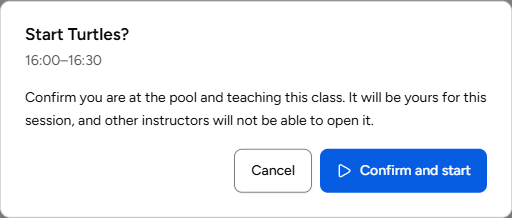
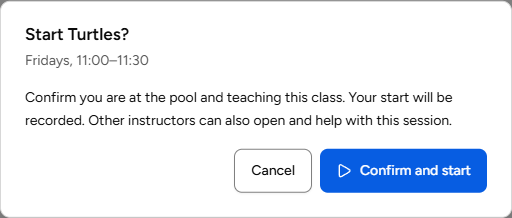
Allow instructors to share started class sessions

Changed region(s): [[0.0312, 0.5229, 0.875, 0.578], [0.6562, 0.4128, 0.9688, 0.4679], [0.0312, 0.2477, 0.3125, 0.3028]]

diff --git a/src/app/(instructor)/instructor/page.tsx b/src/app/(instructor)/instructor/page.tsx
@@ -4,7 +4,6 @@ import {
   ArrowRight,
   Check,
   ClipboardList,
-  LockKeyhole,
   ChevronDown,
 } from "lucide-react";
 import { Button } from "@/components/shadcn/button";
@@ -68,7 +67,6 @@ export default async function InstructorPage(props: PageProps<"/instructor">) {
     shown.filter(course => !cancellations.has(course.id)),
     group,
     now,
-    (c) => claimState(covers.get(c.id), me) === "locked",
   );
   const earlier =
       group === "time" ? sections.filter((s) => s.phase === "earlier") : [],
@@ -105,9 +103,10 @@ export default async function InstructorPage(props: PageProps<"/instructor">) {
               ? " · " + (course.instructor?.name ?? "No instructor assigned")
               : ""}
           </p>
+          {state === "shared" ? <p className="text-xs text-ui-muted-foreground">Started by {claim?.coverByName}</p> : null}
         </ItemContent>
         <div className="flex w-full items-center justify-between gap-3 sm:w-auto sm:gap-5">
-          {cancellations.has(course.id) ? <div className="space-y-1"><Tag color={CANCELLATION_META.cancelled.color}>Cancelled</Tag><p className="max-w-sm break-words text-sm text-ui-muted-foreground">{cancellations.get(course.id)?.reason}</p></div> : state === "mine" ? (
+          {cancellations.has(course.id) ? <div className="space-y-1"><Tag color={CANCELLATION_META.cancelled.color}>Cancelled</Tag><p className="max-w-sm break-words text-sm text-ui-muted-foreground">{cancellations.get(course.id)?.reason}</p></div> : state !== "available" ? (
             <>
               <p className="flex items-center gap-2 text-sm text-ui-muted-foreground">
                 {marked.has(course.id) ? (
@@ -134,14 +133,6 @@ export default async function InstructorPage(props: PageProps<"/instructor">) {
                 </Link>
               </Button>
             </>
-          ) : state === "locked" ? (
-            <p className="flex items-center gap-2 text-sm text-ui-muted-foreground">
-              <LockKeyhole className="size-4 shrink-0" aria-hidden="true" />
-              <span>
-                In progress
-                <span className="block text-xs">With {claim?.coverByName}</span>
-              </span>
-            </p>
           ) : own || can(session, "attendance.cover") ? (
             <StartClass
               courseId={course.id}
@@ -295,16 +286,12 @@ function phaseOf(
 /** By time: the day in the order it happens, one section per start time,
  *  classes inside in curriculum order. By level: one section per rung of
  *  the ladder, programmes and levels in curriculum order, classes inside by
- *  time — for the instructor who has the same checklist open all afternoon.
- *  Inside a section, a class somebody else has taken over goes last. */
+ *  time — for the instructor who has the same checklist open all afternoon. */
 function groupClasses(
   courses: CourseRow[],
   group: Grouping,
   now: number,
-  demote: (course: CourseRow) => boolean,
 ): Section[] {
-  const byDemotion = (a: CourseRow, b: CourseRow) =>
-    Number(demote(a)) - Number(demote(b));
   const byCurriculum = (a: CourseRow, b: CourseRow) =>
     a.level.programme.sortOrder - b.level.programme.sortOrder ||
     a.level.programme.name.localeCompare(b.level.programme.name) ||
@@ -325,7 +312,7 @@ function groupClasses(
 
   if (group === "time") {
     const sorted = [...courses].sort(
-      (a, b) => byTime(a, b) || byDemotion(a, b) || byCurriculum(a, b),
+      (a, b) => byTime(a, b) || byCurriculum(a, b),
     );
     for (const course of sorted) {
       const key = String(course.startMinutes);
@@ -340,7 +327,7 @@ function groupClasses(
     }
   } else {
     const sorted = [...courses].sort(
-      (a, b) => byCurriculum(a, b) || byDemotion(a, b) || byTime(a, b),
+      (a, b) => byCurriculum(a, b) || byTime(a, b),
     );
     for (const course of sorted) {
       const key = course.level.id;

diff --git a/src/lib/help/guides-classes.ts b/src/lib/help/guides-classes.ts
@@ -49,11 +49,11 @@ export const CLASS_GUIDES: HelpArticle[] = [
     steps: [
       { title: "Check the site and today’s list", text: "Use My classes for your scheduled classes, or All classes when covering another teacher. You can group the list by time or level." },
       { title: "Choose Start class", text: "Read the class and date in the confirmation. Confirm that you are at the pool and teaching this class. Your own scheduled classes require this confirmation too." },
-      { title: "Open the teaching record", text: "Once you have started the class, use Open class. The list shows whether attendance is saved or still needs to be taken." },
+      { title: "Open the teaching record", text: "Once an instructor has started the class, use Open class. Other authorised instructors can also open it and help. The list shows whether attendance is saved or still needs to be taken." },
       { title: "Return to the list when finished", text: "Use the class-return controls. Your My classes or All classes selection and grouping are retained." },
     ], result: "You are recorded as teaching that class on that date and can open the teaching record within your permissions.",
     troubleshooting: [
-      { question: "The class says In progress under someone else’s name.", answer: "Another instructor has already confirmed that they are teaching it. You cannot overwrite that claim or open its teaching records. Ask the responsible staff member to resolve the situation." },
+      { question: "Another instructor has already started the class.", answer: "Choose Open class to help with attendance or competencies within your permissions. The original start stays recorded, and your saves are attributed to you. If an old page still says In progress, refresh it. Use All classes to find a colleague’s class." },
       { question: "Can I start a cancelled class?", answer: "No. A cancelled session cannot receive a new start or teaching saves. Contact the duty manager if the cancellation needs to be discussed." },
     ], related: ["take-attendance", "record-competencies", "saving-and-connection"], action: "instructor",
   },
@@ -89,7 +89,7 @@ export const CLASS_GUIDES: HelpArticle[] = [
   {
     slug: "complete-class-level", title: "Confirm a level completion from a class", category: "teaching", scopes: ["desk", "instructor"],
     summary: "Record a confirmed milestone after the required competencies have been achieved.", keywords: ["complete", "level", "pass", "graduate", "ready", "milestone", "finish"],
-    before: ["You need permission to complete a level. Save competency changes before reviewing who is ready. Instructor class ownership still applies."],
+    before: ["You need permission to complete a level. Save competency changes before reviewing who is ready. An instructor must have started the session before teaching records can be saved."],
     steps: [
       { title: "Open the class’s Competencies step", text: "Check the saved marks for the swimmer and review the Ready to complete area when it is available." },
       { title: "Open the completion action", text: "Check the swimmer and level in the dialog. Review any outstanding competencies rather than relying only on the overall count." },

diff --git a/src/lib/progression/actions/assess.test.ts b/src/lib/progression/actions/assess.test.ts
@@ -72,15 +72,15 @@ test("a cancellation blocks instructor and stale desk competencies and level com
   assert.deepEqual(f.marks, before); assert.deepEqual(f.completions, []); assert.deepEqual(f.audits, []);
 });
 
-test("Instructor marks and completion require the confirmed owner and current enrolment under the course lock", async () => {
+test("Instructor marks and completion require a start and current enrolment under the course lock", async () => {
   const f = fixture(); f.deckOnly();
-  for (const owner of [undefined, null, "another-instructor"]) {
+  for (const owner of [undefined]) {
     f.setClaim(owner);
     assert.equal((await f.actions.saveInstructorAssessment(deckMarks)).ok, false);
     assert.equal((await f.actions.confirmLevelCompletion({ ...completion, teaching })).ok, false);
     assert.equal(f.audits.length, 0); assert.equal(f.completions.length, 0);
   }
-  f.setClaim("staff");
+  f.setClaim("another-instructor");
   assert.equal((await f.actions.saveInstructorAssessment(deckMarks)).ok, true);
   assert.equal(f.marks.at(-1)?.assessedOn.toISOString().slice(0, 10), teaching.date);
   assert.equal((f.marks.at(-1) as unknown as { assessedInCourseId: string }).assessedInCourseId, "class");
@@ -102,10 +102,15 @@ test("Instructor accounts cannot bypass the claim via desk actions or a fabricat
   assert.equal(f.audits.length, 0); assert.equal(f.completions.length, 0);
 });
 
-test("the confirmed teacher can complete an eligible swimmer's level and audit failure rolls it back", async () => {
-  const f = fixture(); f.deckOnly(); f.setClaim("staff");
-  assert.equal((await f.actions.confirmLevelCompletion({ ...completion, teaching })).ok, true);
-  assert.equal(f.completions.length, 1); assert.equal(f.audits[0].action, "complete-level");
+test("colleagues can mark and complete existing sessions, including starts by deleted teachers", async () => {
+  for (const owner of ["staff", "another-instructor", null]) {
+    const f = fixture(); f.deckOnly(); f.setClaim(owner);
+    assert.equal((await f.actions.confirmLevelCompletion({ ...completion, teaching })).ok, true);
+    assert.equal(f.completions.length, 1); assert.equal(f.audits[0].action, "complete-level");
+    const marks = fixture(); marks.deckOnly(); marks.setClaim(owner);
+    assert.equal((await marks.actions.saveInstructorAssessment(deckMarks)).ok, true);
+    assert.equal(marks.audits.length, 1);
+  }
   const failed = fixture(); failed.deckOnly(); failed.setClaim("staff"); failed.failAudit();
   await assert.rejects(failed.actions.confirmLevelCompletion({ ...completion, teaching }), /audit failed/);
   assert.equal(failed.completions.length, 0);

diff --git a/src/lib/attendance/access.test.ts b/src/lib/attendance/access.test.ts
@@ -9,26 +9,29 @@ const access = serverModule<typeof import("./access")>("src/lib/attendance/acces
 });
 const session = (permissions: PermissionKey[]) => ({ user: { id: "teacher", permissions } }) as Session;
 
-test("poolside teaching requires ownership or declared cover, including for desk transcribers", () => {
+test("poolside teaching requires a recorded start but never exclusive ownership", () => {
   const args = { session: session(["attendance.markAny"]), instructorId: "colleague" };
   assert.equal(access.canMarkRegister(args), true);
   assert.equal(access.canTeachClass(args), false);
   assert.equal(access.needsTakeOver(args), true);
   assert.equal(access.canTeachClass({ ...args, coverById: "teacher" }), true);
   assert.equal(access.canTeachClass({ ...args, instructorId: "teacher" }), false);
-  assert.equal(access.canTeachClass({ ...args, instructorId: "teacher", coverById: "colleague" }), false);
+  assert.equal(access.canTeachClass({ ...args, instructorId: "teacher", coverById: "colleague" }), true);
+  assert.equal(access.canTeachClass({ ...args, coverById: null }), true);
 });
 
 test("read-only staff cannot teach and cover without permission is not offered", () => {
   assert.equal(access.canTeachClass({ session: session([]), instructorId: "teacher" }), false);
+  assert.equal(access.canTeachClass({ session: session([]), instructorId: "teacher", coverById: "colleague" }), false);
+  assert.equal(access.canTeachClass({ session: session(["attendance.mark"]), instructorId: "colleague", coverById: "colleague" }), true);
   assert.equal(access.needsTakeOver({ session: session(["attendance.mark"]), instructorId: "colleague" }), false);
   assert.equal(access.canTeachClass({ session: session(["attendance.mark"]), instructorId: null, coverById: "teacher" }), true);
 });
 
-test("administrator access does not bypass the confirmed instructor claim", () => {
+test("administrators still need a recorded start and may share another instructor's session", () => {
   const args = { session: session(["staff.manage", "roles.manage"]), instructorId: "teacher" };
   assert.equal(access.canMarkRegister(args), true);
   assert.equal(access.canTeachClass(args), false);
-  assert.equal(access.canTeachClass({ ...args, coverById: "colleague" }), false);
+  assert.equal(access.canTeachClass({ ...args, coverById: "colleague" }), true);
   assert.equal(access.canTeachClass({ ...args, coverById: "teacher" }), true);
 });

diff --git a/src/lib/attendance/actions/cover.ts b/src/lib/attendance/actions/cover.ts
@@ -14,7 +14,8 @@ import { cancellationError } from "@/lib/cancellations/guard";
 
 /** Confirm who is teaching a class on a date. The existing ClassCover record
  * now includes scheduled instructors as well as substitutes. Claims and their
- * audit entries are created together under the course lock and never replaced. */
+ * audit entries are created together under the course lock and never replaced.
+ * A recorded start allows other authorised instructors to open the class. */
 
 
 const takeOverSchema = z.object({
@@ -30,7 +31,7 @@ export async function takeOverClass(input: TakeOverInput): Promise<ActionResult>
 }
 
 /** Confirmation is required for scheduled instructors as well as cover.
- * The course lock makes concurrent confirmations a single-winner operation. */
+ * Concurrent confirmations keep one original start; both callers can open it. */
 export async function startClass(input: TakeOverInput): Promise<ActionResult> {
   const session = await requirePermission("attendance.mark");
   if (!canSee(session, "instructor")) throw new AuthorizationError("Instructor access is required.");
@@ -61,7 +62,6 @@ async function claim(input: TakeOverInput, session: Session, starting: boolean):
     if (!course) return fail("That class no longer exists.");
     if (course.archivedAt) return fail("That class is archived.");
     const own = course.instructorId === session.user.id;
-    if (!own && !can(session, "attendance.cover")) return fail("You do not have permission to start another instructor’s class.");
 
     // The same two guards as the register, for the same reason: a cover on a
     // day the class never ran is as wrong as a mark on one.
@@ -80,8 +80,8 @@ async function claim(input: TakeOverInput, session: Session, starting: boolean):
       where: { courseId_date: { courseId, date } },
       select: { coverById: true, coverByName: true },
     });
-    if (existing?.coverById === session.user.id) return ok();
-    if (existing) return fail(`This class has already been started by ${existing.coverByName}. Only that instructor can open it.`);
+    if (existing) return ok();
+    if (!own && !can(session, "attendance.cover")) return fail("You do not have permission to start another instructor’s class.");
 
     const name = session.user.name ?? "Unknown";
     const record = {

diff --git a/src/lib/attendance/actions/cover.test.ts b/src/lib/attendance/actions/cover.test.ts
@@ -148,25 +148,34 @@ test("a scheduled instructor confirms a class once and a retry adds no audit", a
   assert.equal((await f.actions.startClass(input)).ok, true);
   assert.equal(f.audits.length, 1);
 });
-test("simultaneous starts have one winner and the losing teacher cannot take it over", async () => {
+test("simultaneous starts keep one audit and original teacher while both instructors gain access", async () => {
   const f = fixture();
   const one = f.actions.startClass(input);
   f.actor("cover");
   const two = f.actions.startClass(input);
   const result = await Promise.all([one, two]);
-  assert.equal(result.filter((r) => r.ok).length, 1);
+  assert.equal(result.filter((r) => r.ok).length, 2);
   assert.equal(f.claim()?.coverById, "scheduled");
   assert.equal(f.audits.length, 1);
-  assert.equal((await f.actions.takeOverClass(input)).ok, false);
+  assert.equal((await f.actions.takeOverClass(input)).ok, true);
+  assert.equal(f.claim()?.coverById, "scheduled");
+  assert.equal(f.audits.length, 1);
 });
-test("a claim blocks the scheduled teacher too, including when its owner was deleted", async () => {
+test("existing starts immediately allow colleagues, including when the original teacher was deleted", async () => {
   for (const owner of ["cover", null]) {
     const f = fixture();
     f.seed(owner);
-    assert.equal((await f.actions.startClass(input)).ok, false);
+    assert.equal((await f.actions.startClass(input)).ok, true);
     assert.equal(f.claim()?.coverById, owner);
     assert.equal(f.audits.length, 0);
   }
+});
+
+test("joining an existing session needs no new cover claim", async () => {
+  const f = fixture(); f.seed("scheduled"); f.actor("colleague"); f.noCover();
+  assert.equal((await f.actions.startClass(input)).ok, true);
+  assert.equal(f.claim()?.coverById, "scheduled");
+  assert.equal(f.audits.length, 0);
 });
 test("permission, date and archive checks happen before claiming, and audit failure rolls back", async () => {
   const f = fixture();

diff --git a/src/lib/help/screenshots.ts b/src/lib/help/screenshots.ts
@@ -43,7 +43,7 @@ export const GUIDE_SCREENSHOTS: Record<string, Placement[]> = {
   ],
   "daily-schedule": [{ image: "schedule", step: "Read the booking sheet", caption: "Levels run down the left; start times run across the top.", alt: "Daily Schedule booking sheet with the week navigator and classes arranged by level and time." }],
   "manage-class": [{ image: "add-class", step: "Add the weekly class", caption: "Check the site, level, weekly time and capacity before saving.", alt: "Add class dialog with level, day, start time, duration, capacity, instructor and pool-area fields." }],
-  "start-class": [{ image: "start-class", step: "Choose Start class", caption: "Confirm that you are teaching this dated class.", alt: "Start Turtles confirmation with the class time, a reminder that only the claiming instructor can open it, and Confirm and start." }],
+  "start-class": [{ image: "start-class", step: "Choose Start class", caption: "Confirm that you are teaching this dated class. Other authorised instructors can also help.", alt: "Start Turtles confirmation with the class time, an explanation that the start is recorded and colleagues can also open the session, and Confirm and start." }],
   "take-attendance": [{ image: "attendance", step: "Check each swimmer’s attendance", caption: "Choose each swimmer’s attendance status and review the roster before saving.", alt: "Attendance form showing example swimmers with Present, Absent and Late choices, Class note and Save and continue." }],
   "record-competencies": [
     { image: "competencies", step: "Mark what was demonstrated", caption: "Work through one competency at a time and mark the swimmers who were in today.", alt: "Class competency checklist with a competency selector, achieved controls, a group marking action and Not in today section.", scope: "desk" },

diff --git a/src/lib/attendance/actions/register.test.ts b/src/lib/attendance/actions/register.test.ts
@@ -98,10 +98,10 @@ test("unchanged attendance produces no writes or audit entries", async () => {
   assert.equal(f.updated.length, 0); assert.equal(f.audits.length, 0);
 });
 
-test("Instructor attendance checks the confirmed owner under lock, including omitted teaching flags", async () => {
+test("Instructor attendance still requires a start, including omitted teaching flags", async () => {
   const f = fixture(); f.deckOnly();
   const input = { ...f.input(), classNote: "Deck note" };
-  for (const owner of [undefined, null, "another-instructor"]) {
+  for (const owner of [undefined]) {
     f.setClaim(owner);
     assert.equal((await f.markRegister({ ...input, teaching: true })).ok, false);
     assert.equal((await f.markRegister(input)).ok, false);
@@ -112,6 +112,19 @@ test("Instructor attendance checks the confirmed owner under lock, including omi
   assert.equal(f.note(), "Deck note"); assert.equal(f.audits.length, 1);
   assert.match(f.audits[0].summary, /taught by Test Instructor, the scheduled instructor/);
   assert.doesNotMatch(f.audits[0].summary, /covering for/);
+});
+
+test("other instructors can save existing sessions without rewriting the original start", async () => {
+  for (const owner of [null, "another-instructor"]) {
+    const f = fixture(); f.deckOnly(); f.setClaim(owner);
+    const input = { ...f.input(), teaching: true, classNote: "Saved by a colleague" };
+    input.marks[1].status = "PRESENT";
+    assert.equal((await f.markRegister(input)).ok, true);
+    assert.equal(f.rows[1].markedById, "instructor");
+    assert.equal(f.rows[0].markedById, "original");
+    assert.equal(f.note(), "Saved by a colleague");
+    assert.doesNotMatch(f.audits[0].summary, /taught by|taken by/);
+  }
 });
 
 test("editing one mark preserves the other swimmer's original recorder", async () => {

diff --git a/src/lib/attendance/data/instructor-class.test.ts b/src/lib/attendance/data/instructor-class.test.ts
@@ -50,19 +50,15 @@ test("cancelled sessions never load the roster even for their confirmed teacher"
   assert.equal((await f.data.getInstructorClass("class", "2026-09-11"))?.state, "cancelled");
   assert.deepEqual(f.reads, []);
 });
-test("unstarted or locked classes never load swimmer attendance or competencies", async () => {
-  for (const owner of [undefined, null, "other"]) {
-    const f = fixture(owner);
-    const view = await f.data.getInstructorClass("class", "2026-09-11");
-    assert.equal(view?.state, owner === undefined ? "available" : "locked");
-    assert.deepEqual(f.reads, []);
-  }
+test("unstarted classes still require confirmation before loading swimmer records", async () => {
+  const f = fixture(undefined);
+  assert.equal((await f.data.getInstructorClass("class", "2026-09-11"))?.state, "available");
+  assert.deepEqual(f.reads, []);
 });
-test("only the confirmed teacher reaches the class roster and marks", async () => {
-  const f = fixture("teacher");
-  assert.equal(
-    (await f.data.getInstructorClass("class", "2026-09-11"))?.state,
-    "ready",
-  );
-  assert.deepEqual(f.reads.sort(), ["attendance", "competencies"]);
+test("existing starts open the roster for colleagues, including starts by deleted accounts", async () => {
+  for (const owner of ["teacher", "other", null]) {
+    const f = fixture(owner);
+    assert.equal((await f.data.getInstructorClass("class", "2026-09-11"))?.state, "ready");
+    assert.deepEqual(f.reads.sort(), ["attendance", "competencies"]);
+  }
 });

diff --git a/scripts/instructor-swimmer-preview/assessment-fixture.jsx b/scripts/instructor-swimmer-preview/assessment-fixture.jsx
@@ -28,6 +28,12 @@ const session={...sessions[0],clubId:club.id,club,date:parseDateOnly(today()),no
   programmeId:'water',programme:{id:'water',name:'Water Safety & Fun',levels:[{id:'starfish',name:'Starfish',sortOrder:0},{id:'turtles',name:'Turtles',sortOrder:2}]},
   typeId:'new',type:{id:'new',name:'New swimmer assessment'},bookings:query.has('empty')?[]:bookings,_count:{bookings:3}};
 window.assessmentPreview={sessions:query.has('empty')?[]:sessions,listDates:[],calls:[],fail:false,async save(){throw Error('Not ready')}};
+if (query.has('shared')) {
+  const level={id:'turtles',name:'Turtles',sortOrder:0,programme:{id:'water',name:'Water Safety & Fun',sortOrder:0}};
+  window.assessmentPreview.sessions=[];
+  window.assessmentPreview.courses=['shared','deleted','unstarted'].map((id,index)=>({id,name:null,clubId:club.id,level,dayOfWeek:'FRIDAY',startMinutes:600+index*30,durationMinutes:30,location:'Learner Pool',capacity:8,_count:{enrolments:3},instructorId:'example-teacher',instructor:{id:'example-teacher',name:'Alex Example'}}));
+  window.assessmentPreview.covers=[['shared',{coverById:'colleague',coverByName:'Sam Example'}],['deleted',{coverById:null,coverByName:'Former Example'}]];
+}
 
 function Preview({home}) {
   const [data,setData]=useState(session);

diff --git a/src/lib/attendance/data/instructor-class.ts b/src/lib/attendance/data/instructor-class.ts
@@ -9,8 +9,8 @@ import { isIsoDate, mostRecentOccurrence } from "@/lib/attendance/dates";
 import { parseDateOnly, today, weekdayOf } from "@/lib/format";
 import { getCancellation } from "@/lib/cancellations/data";
 
-/** No roster, attendance or competency data is read before the teacher's
- * confirmed claim has been checked. This also guards direct/bookmarked URLs. */
+/** Require Instructor access and a confirmed start before loading the roster.
+ * A colleague's start also opens the class, including existing dated records. */
 export async function getInstructorClass(id: string, requestedDate: unknown) {
   const session = await classPage("instructor");
   const [course, { club }] = await Promise.all([
@@ -33,7 +33,7 @@ export async function getInstructorClass(id: string, requestedDate: unknown) {
   if (cancellation) return { ...base, state: "cancelled" as const, cancellation };
   const claim = await getClassCover(id, iso);
   const state = claimState(claim, session.user.id);
-  if (state !== "mine") return { ...base, state, claim };
+  if (state === "available") return { ...base, state, claim };
   const [register, progress] = await Promise.all([
     getRegister(id, iso),
     getClassProgress(id),

diff --git a/src/lib/attendance/teaching.test.ts b/src/lib/attendance/teaching.test.ts
@@ -4,7 +4,7 @@ import type { Prisma } from "@/generated/prisma/client";
 import type { Session } from "next-auth";
 import { serverModule } from "@/test/server-module";
 
-test("teaching saves reject another teacher, unclaimed dates and swimmers outside the class", async () => {
+test("teaching saves allow colleagues but reject unstarted dates and swimmers outside the class", async () => {
   let owner: string | null = "other",
     exists = true,
     members = ["swimmer"];
@@ -27,9 +27,9 @@ test("teaching saves reject another teacher, unclaimed dates and swimmers outsid
   } as unknown as Prisma.TransactionClient;
   const session = { user: { id: "teacher" } } as Session,
     context = { courseId: "class", date: "2026-09-11" };
-  assert.match((await teachingError(tx, session, context, "site"))!, /locked/);
+  assert.equal(await teachingError(tx, session, context, "site"), null);
   owner = null;
-  assert.ok(await teachingError(tx, session, context, "site"));
+  assert.equal(await teachingError(tx, session, context, "site"), null);
   exists = false;
   assert.ok(await teachingError(tx, session, context, "site"));
   exists = true;
